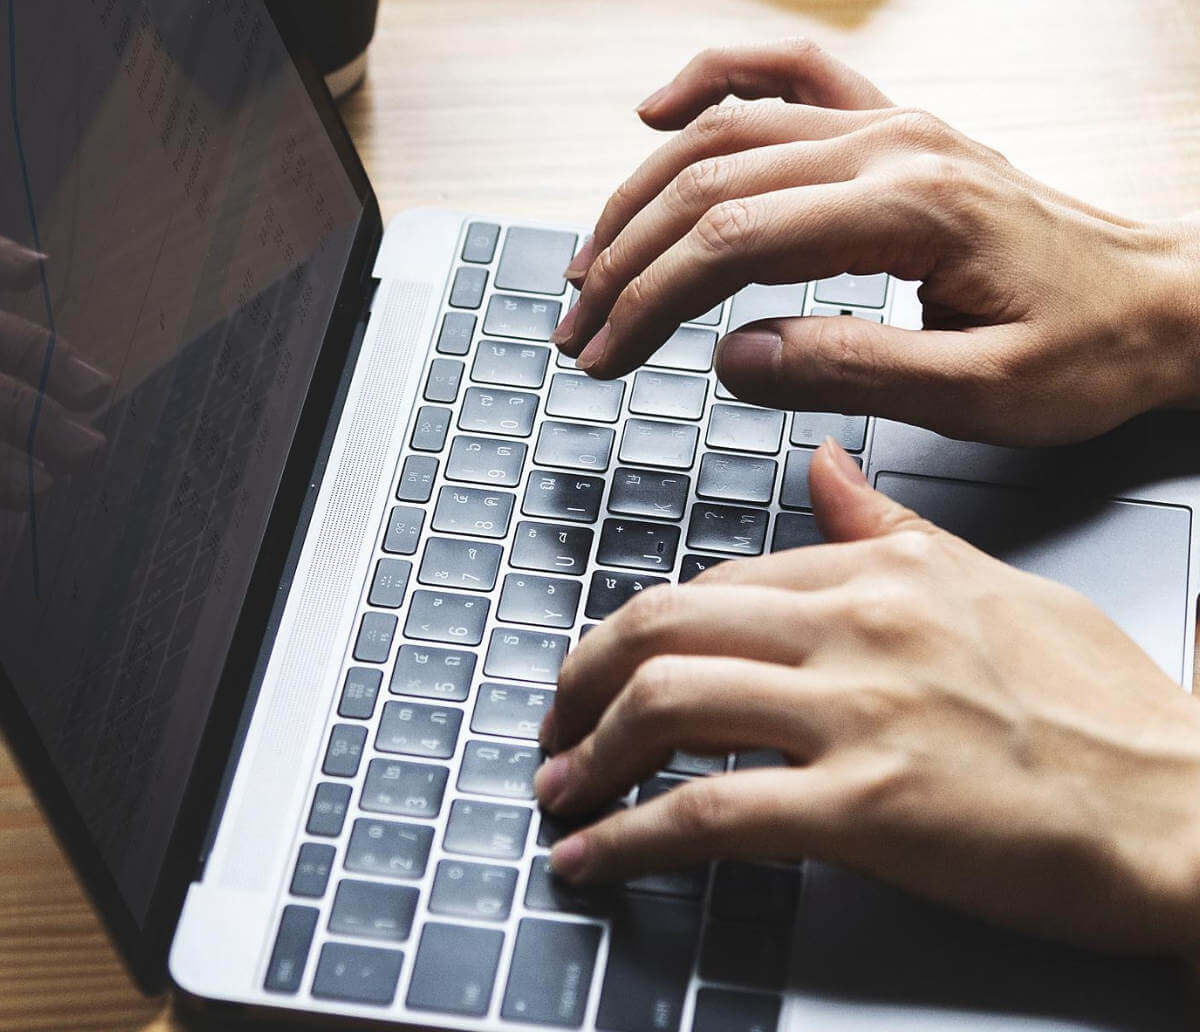
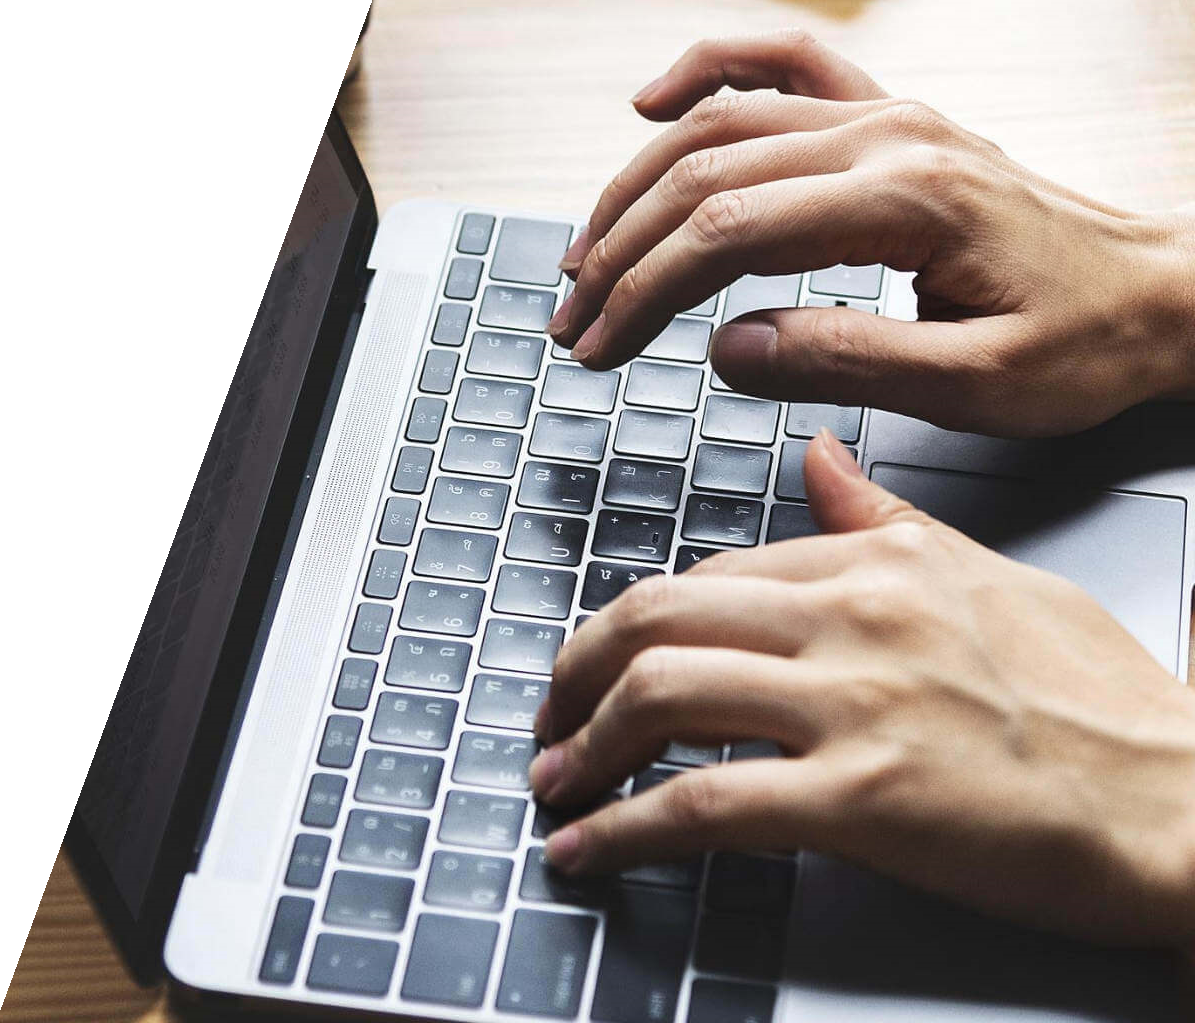
with carousel

diff --git a/src/components/HomeComponent.vue b/src/components/HomeComponent.vue
@@ -1,30 +1,82 @@
 <template>
   <v-main style="width:100%;">
-    <div class="home" id="home">
-      <div class="triangle"></div>
-      <div id="slogan">   
-        <h1 v-scrollanimation>
-          Hi, I am <span style="color:#939366;">Marion</span> This is<br> my favorite work.
-        </h1>
-        <p v-scrollanimation>
-            <vue-typer 
-            :text='typerInfo.msg'
-            :repeat='typerInfo.repeat'
-            :shuffle='typerInfo.isShaffle'
-            :initial-action='typerInfo.initialAction'
-            :pre-type-delay='typerInfo.preTypeDelay'
-            :type-delay='typerInfo.typeDelay'
-            :pre-erase-delay='typerInfo.preEraseDelay'
-            :erase-delay='typerInfo.eraseDelay'
-            :erase-style='typerInfo.eraseStyle'
-            :erase-on-complete='typerInfo.eraseOnComplete'
-            :caret-animation='typerInfo.caretAnimation'  
-            ></vue-typer>
-        </p>
-        <v-btn id="link" color="#939366" class="mr-5" @click="$router.push({name: 'contact'})" v-scrollanimation >hire me</v-btn>
-        <v-btn id="link" outlined color="#939366" @click="$router.push({name: 'projects'})" v-scrollanimation>projects</v-btn> 
-      </div>
-    </div>
+    <v-main class="home" id="home" >
+          <v-row align="center">
+            <v-col md="6">
+              <div style="float:right" class="pr-13">   
+                <h1 v-scrollanimation>
+                  Hi, I am <span style="color:#939366;">Marion</span> This is<br> my favorite work.
+                </h1>
+                <p v-scrollanimation>
+                    <vue-typer 
+                    :text='typerInfo.msg'
+                    :repeat='typerInfo.repeat'
+                    :shuffle='typerInfo.isShaffle'
+                    :initial-action='typerInfo.initialAction'
+                    :pre-type-delay='typerInfo.preTypeDelay'
+                    :type-delay='typerInfo.typeDelay'
+                    :pre-erase-delay='typerInfo.preEraseDelay'
+                    :erase-delay='typerInfo.eraseDelay'
+                    :erase-style='typerInfo.eraseStyle'
+                    :erase-on-complete='typerInfo.eraseOnComplete'
+                    :caret-animation='typerInfo.caretAnimation'  
+                    ></vue-typer>
+                </p>
+                <v-btn id="link" color="#939366" style="color:white" class="mr-5" @click="$router.push({name: 'contact'})" v-scrollanimation >hire me</v-btn>
+                <v-btn id="link" outlined color="black" @click="$router.push({name: 'projects'})" v-scrollanimation>projects</v-btn> 
+              </div>
+            </v-col>
+            <v-col md="3">
+              <v-card  style="width:300px;" >
+                <v-carousel
+                cycle
+                height="400"
+                hide-delimiter-background
+                show-arrows-on-hover>
+                <v-carousel-item
+                  v-for="(slide, i) in slides"
+                  :key="i">
+                <v-sheet
+                  height="100%">
+                  <v-row
+                  class="fill-height"
+                  align="center"
+                  justify="center">
+                  <img :src="getImagePath (currentBgPath)" alt="">
+                  <!-- <div class="display-3">{{ slide }} Slide</div> -->
+                  </v-row>
+                </v-sheet>
+                </v-carousel-item>
+                </v-carousel>
+              </v-card>
+            </v-col>
+            <v-col md="3">
+              <v-card  style="width:300px;">
+                <v-carousel
+                cycle
+                height="400"
+                hide-delimiter-background
+                show-arrows-on-hover>
+                <v-carousel-item
+                  v-for="(slide, i) in slides"
+                  :key="i">
+                <v-sheet
+                  height="100%">
+                  <v-row
+                  class="fill-height"
+                  align="center"
+                  justify="center">
+                   <img :src="getImagePath (colors[i])" alt="">
+                  </v-row>
+                </v-sheet>
+                </v-carousel-item>
+                </v-carousel>
+              </v-card>
+            </v-col>     
+          </v-row>
+          
+    </v-main>
+
     <v-card class="details pl-2 pr-2" >
       <v-container class="expQuickView" >
         <v-row>
@@ -74,6 +126,21 @@ export default {
   name: 'home',
   data:()=>{
     return {
+      currentBgPath: null,
+      colors: [
+          "carouselImages/img1.png",
+          "carouselImages/img2.png",
+          "carouselImages/img3.png",
+          "carouselImages/img4.png",
+          "carouselImages/img5.png",
+        ],
+        slides: [
+          'First',
+          'Second',
+          'Third',
+          'Fourth',
+          'Fifth',
+        ],
       typerInfo:{
         msg:[
           "CONNECTS YOU",
@@ -113,6 +180,10 @@ export default {
       }
     }
   },
+  created(){
+        var random = Math.floor(Math.random() * this.colors.length);
+        this.currentBgPath = this.colors[random];
+    },
   mounted(){
   this.scrollIntoDiv(this.$route.name);
   },
@@ -144,25 +215,10 @@ export default {
 </script>
 <style scoped>
 .home{
-  background-image:url("~@/assets/backgroundImage.png");
+  background-image:linear-gradient(rgba(255,255,255,.5), rgba(255,255,255,.5)),url("~@/assets/backgroundImage.png");
   background-repeat: no-repeat;
   background-size: 70% 470px;
   background-position: top right;
-  height: 470px;
-}
-.triangle{
-  margin-left: 30%;
-  width: 0;
-	height: 0;
-	border-top: 0px solid transparent;
-	border-left: 150px solid white; 
-	border-bottom: 470px solid transparent;
-}
-#slogan{
-  position: absolute;
-  top: 10%;
-  left: 0px;
-  margin-left: 20%;
 }
 .vue-typer {
   font-family: monospace;
